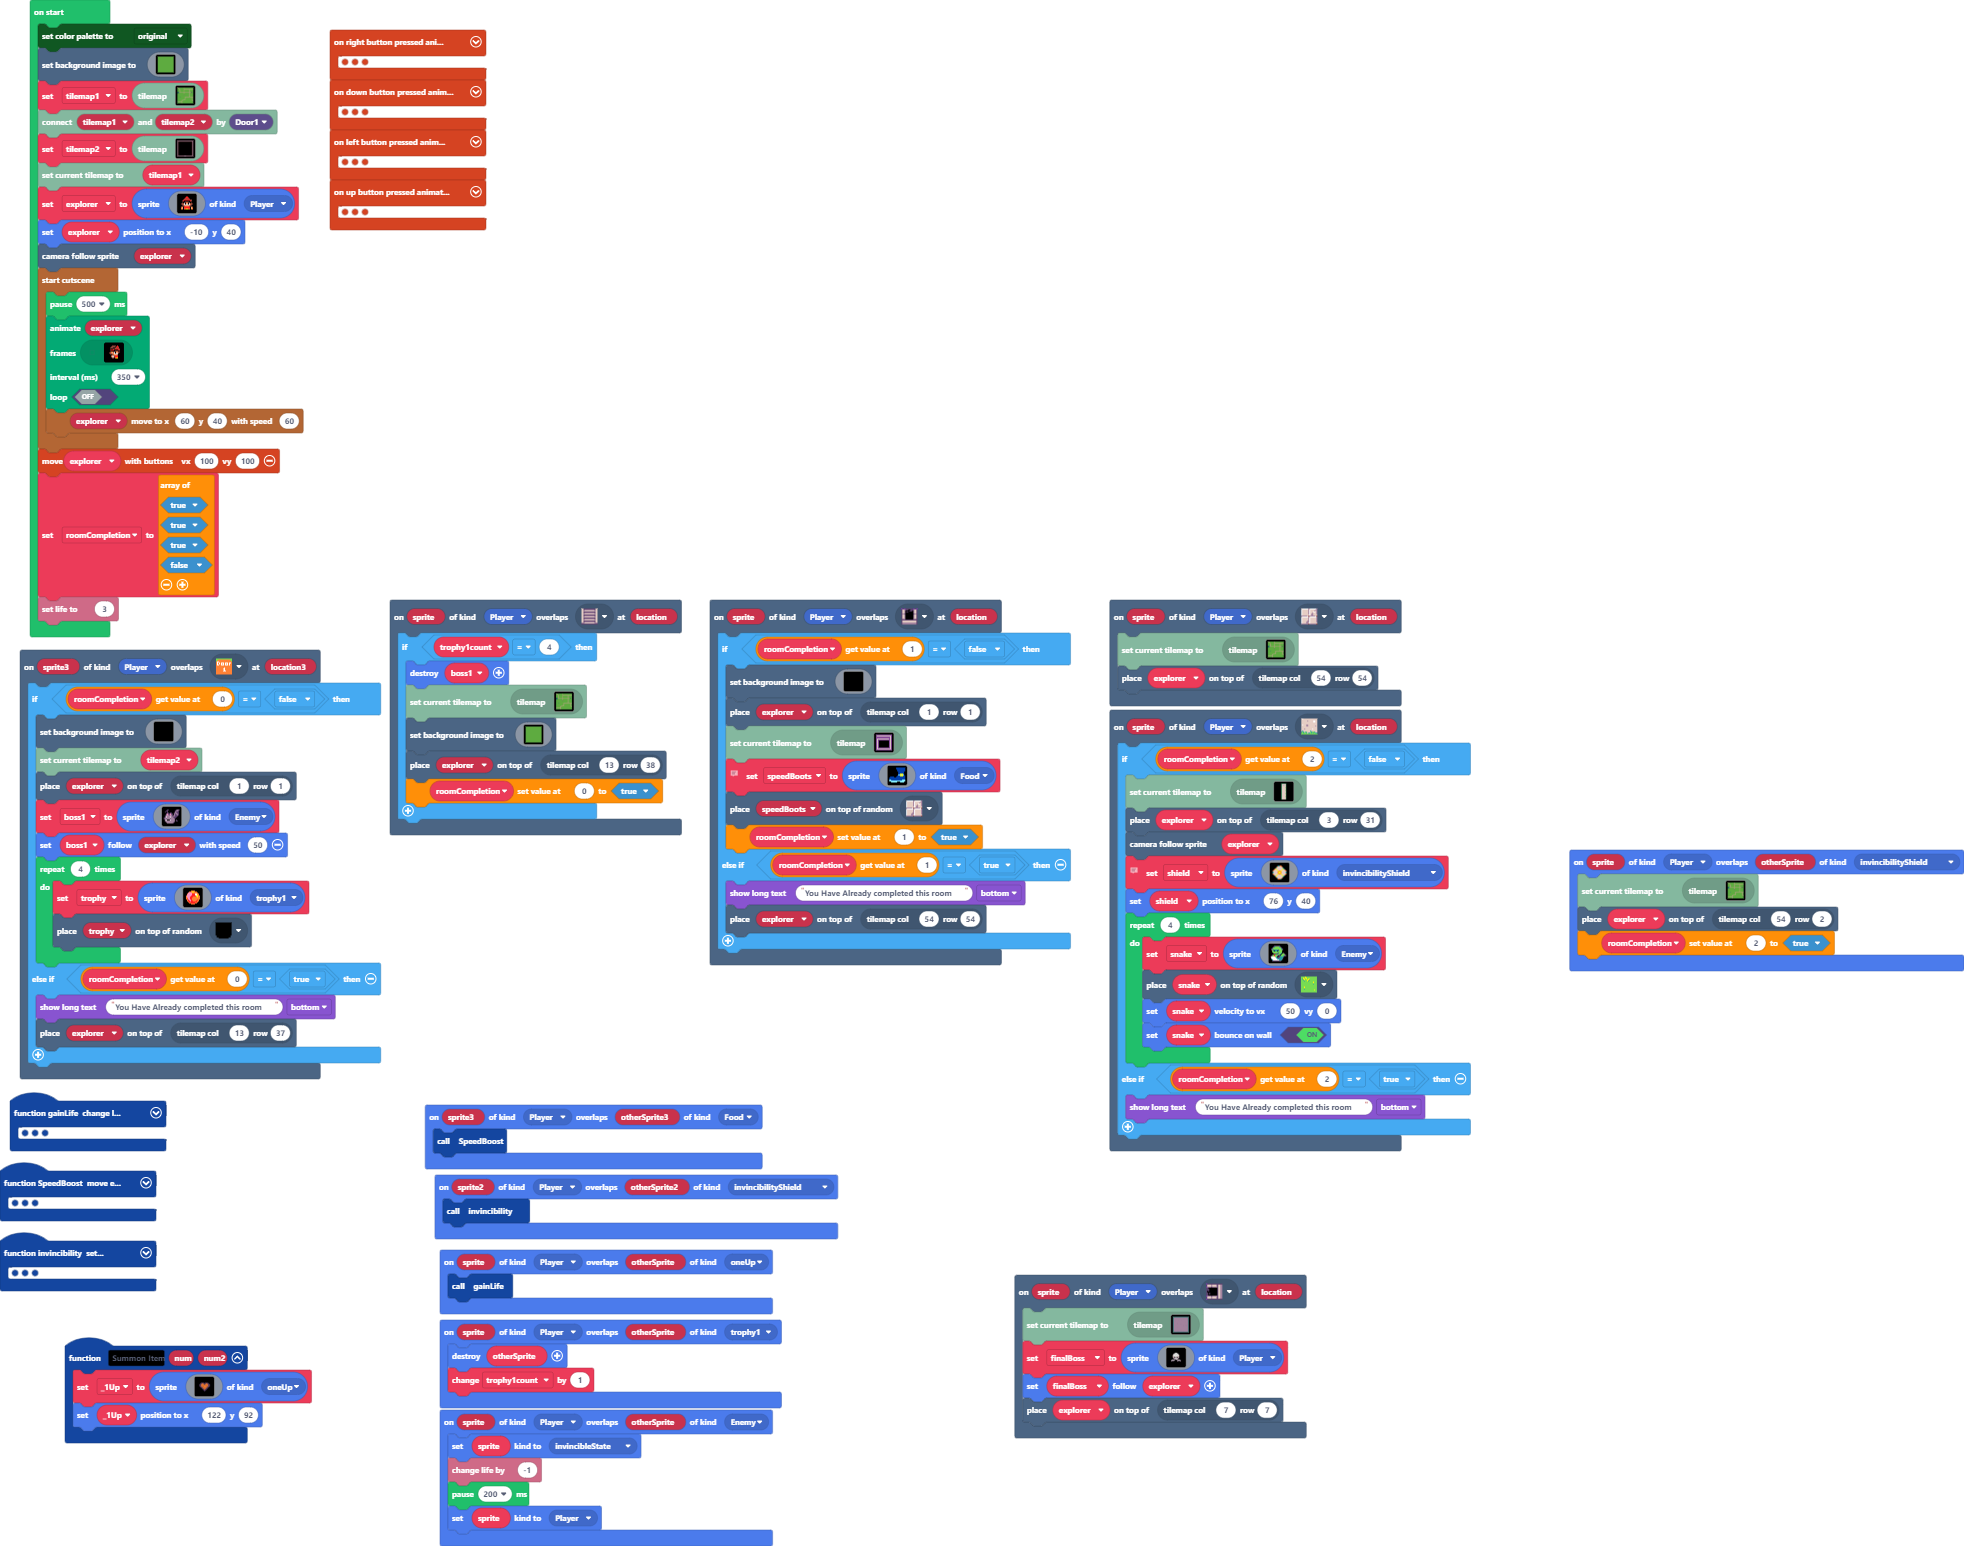
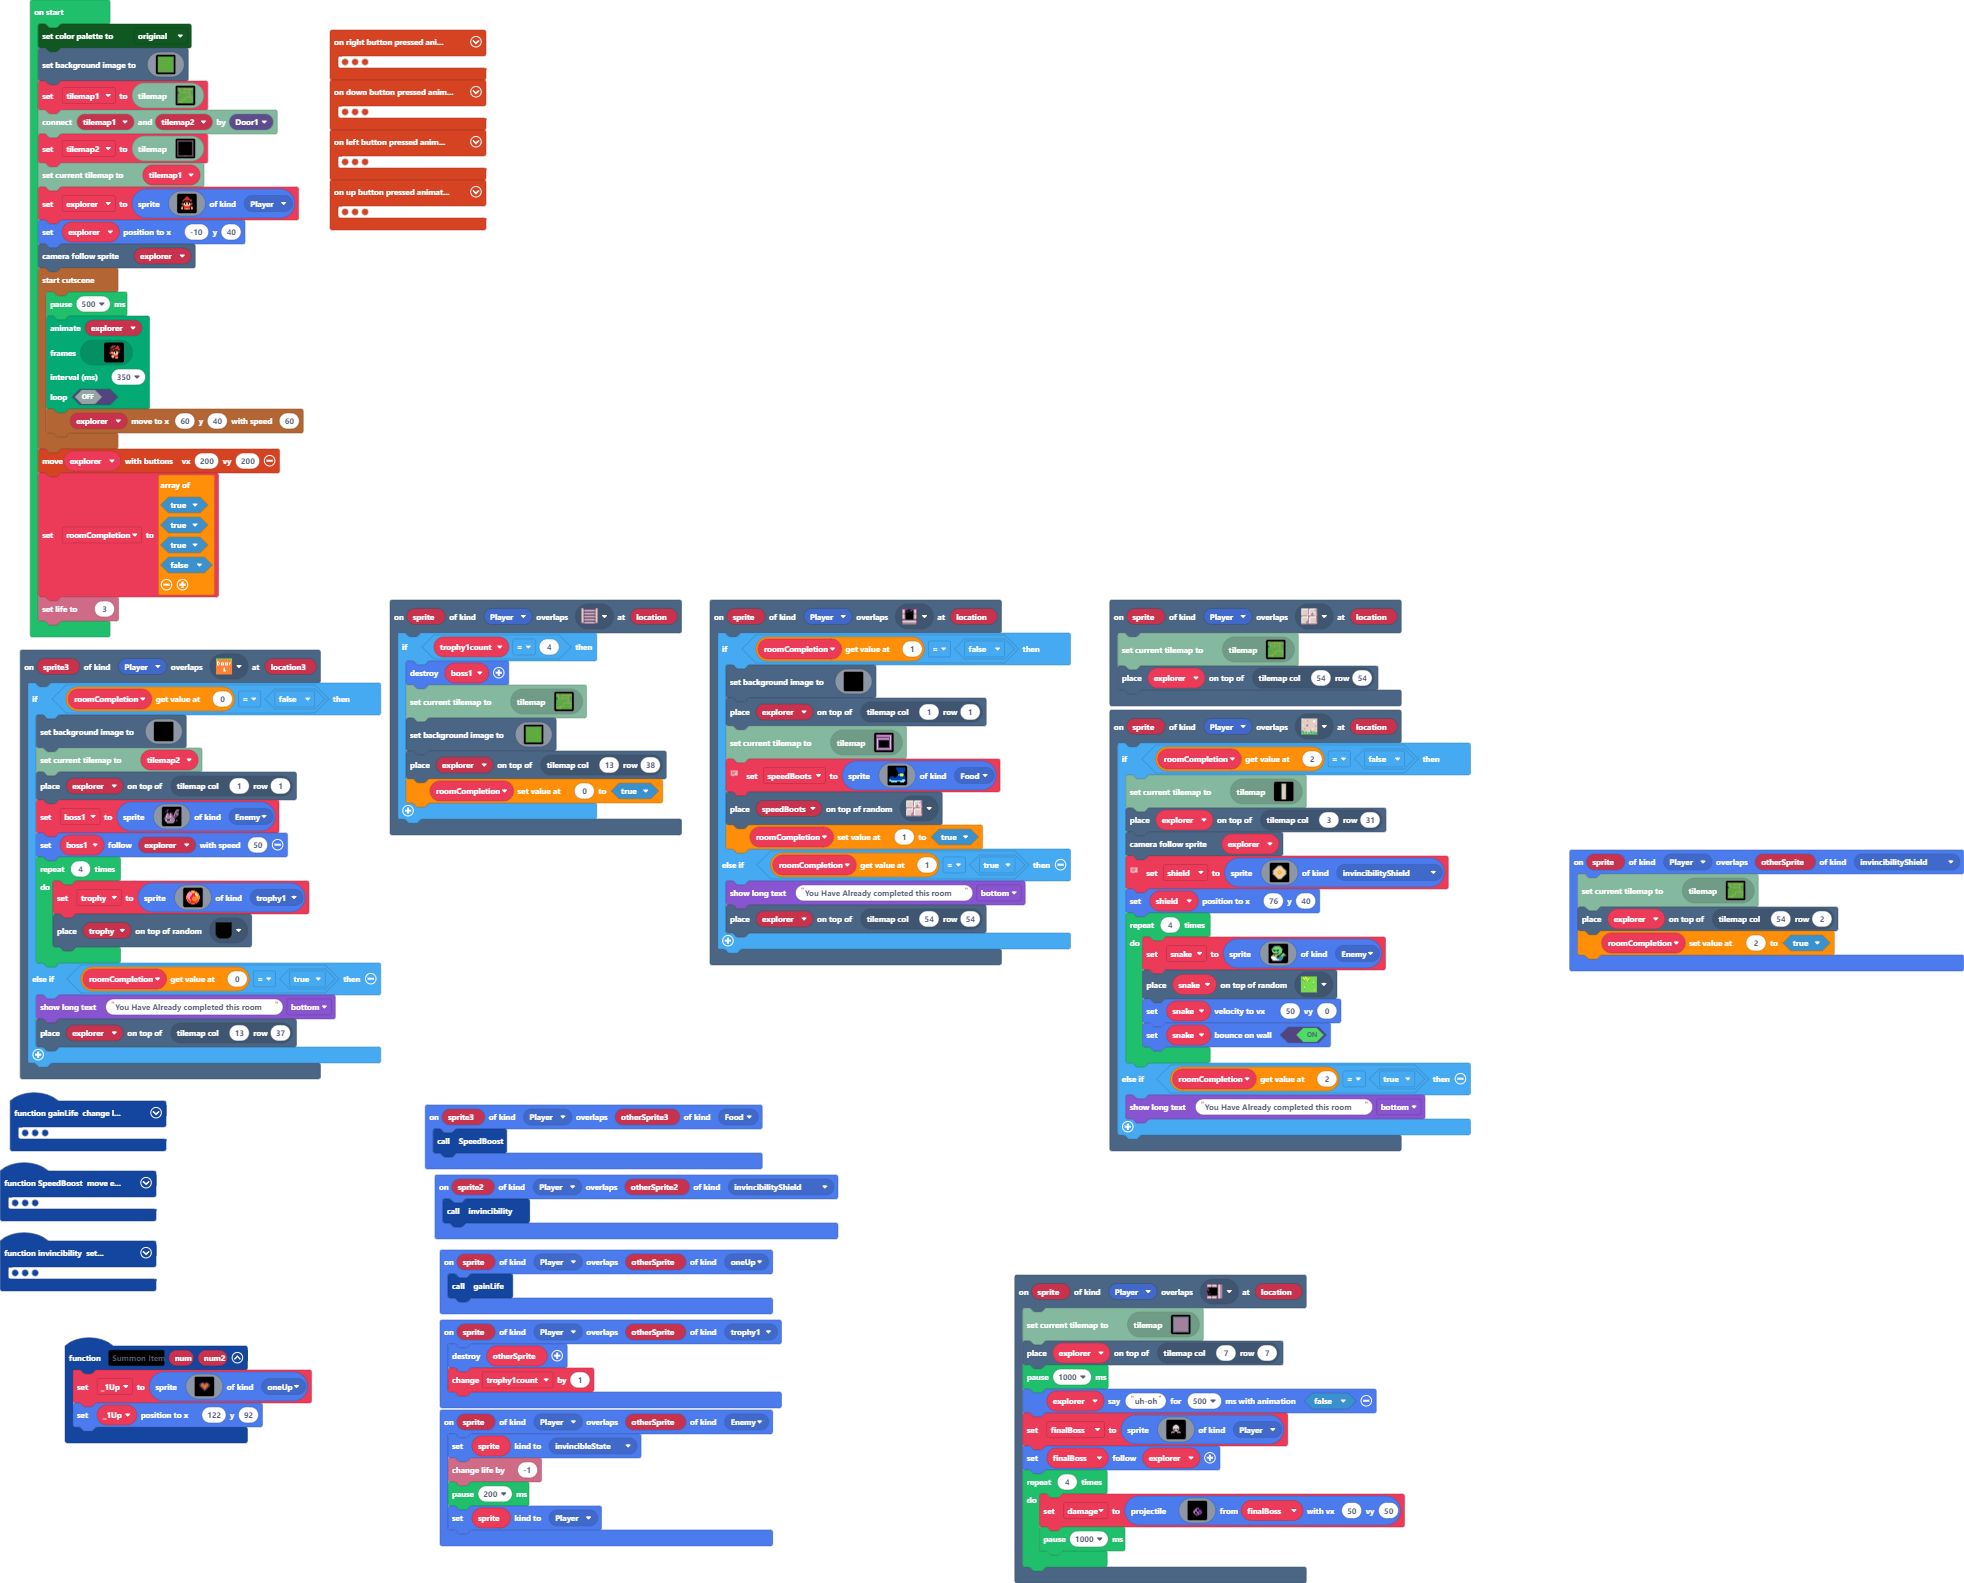
Update main.blocks, main.ts, tilemap.g.jres, tilemap.g.ts

diff --git a/tilemap.g.ts b/tilemap.g.ts
@@ -1015,22 +1015,22 @@ namespace myTiles {
 `, [myTiles.transparency16], TileScale.Sixteen);
             case "level34":
[1 lines of base64/hex data omitted]
-. . . . . . . . . . . . . . . . 
-. . . . . . . . . . . . . . . . 
-. . . . . . . . . . . . . . . . 
-. . . . . . . . . . . . . . . . 
-. . . . . . . . . . . . . . . . 
-. . . . . . . . . . . . . . . . 
-. . . . . . . . . . . . . . . . 
-. . . . . . . . . . . . . . . . 
-. . . . . . . . . . . . . . . . 
-. . . . . . . . . . . . . . . . 
-. . . . . . . . . . . . . . . . 
-. . . . . . . . . . . . . . . . 
-. . . . . . . . . . . . . . . . 
-. . . . . . . . . . . . . . . . 
-. . . . . . . . . . . . . . . . 
-. . . . . . . . . . . . . . . . 
+2 2 2 2 2 2 2 2 2 2 2 2 2 2 2 2 
+2 . . . . . . . . . . . . . . 2 
+2 . . . . . . . . . . . . . . 2 
+2 . . . . . . . . . . . . . . 2 
+2 . . . . . . . . . . . . . . 2 
+2 . . . . . . . . . . . . . . 2 
+2 . . . . . . . . . . . . . . 2 
+2 . . . . . . . . . . . . . . 2 
+2 . . . . . . . . . . . . . . 2 
+2 . . . . . . . . . . . . . . 2 
+2 . . . . . . . . . . . . . . 2 
+2 . . . . . . . . . . . . . . 2 
+2 . . . . . . . . . . . . . . 2 
+2 . . . . . . . . . . . . . . 2 
+2 . . . . . . . . . . . . . . 2 
+2 2 2 2 2 2 2 2 2 2 2 2 2 2 2 2 
 `, [myTiles.transparency16,sprites.dungeon.greenOuterSouthEast,sprites.dungeon.greenOuterSouthWest,sprites.dungeon.greenOuterNorthEast,sprites.dungeon.greenOuterNorthWest,sprites.dungeon.greenOuterNorth0,sprites.dungeon.greenOuterEast0,sprites.dungeon.greenOuterSouth0,sprites.dungeon.greenOuterWest0,sprites.dungeon.floorDark0,sprites.dungeon.floorDark1], TileScale.Sixteen);
         }
         return null;

diff --git a/main.ts b/main.ts
@@ -456,6 +456,9 @@ function SpeedBoost () {
 }
 scene.onOverlapTile(SpriteKind.Player, sprites.dungeon.doorOpenEast, function (sprite, location) {
     tiles.loadMap(tiles.createMap(tilemap`level34`))
+    tiles.placeOnTile(explorer, tiles.getTileLocation(7, 7))
+    pause(1000)
+    explorer.sayText("uh-oh", 500, false)
     finalBoss = sprites.create(img`
         ........................
         ........................
@@ -483,7 +486,27 @@ scene.onOverlapTile(SpriteKind.Player, sprites.dungeon.doorOpenEast, function (s
         ........................
         `, SpriteKind.Player)
     finalBoss.follow(explorer)
-    tiles.placeOnTile(explorer, tiles.getTileLocation(7, 7))
+    for (let index = 0; index < 4; index++) {
+        damage = sprites.createProjectileFromSprite(img`
+            . . . . . . . . . . . . . . . . 
+            . . . . . . . . . . . . . . . . 
+            . . . . . . . . . . . . . . . . 
+            . . . . . . . . . . . . . . . . 
+            . . . . . . . . . . . . . . . . 
+            . . . . . . . c c c . . . . . . 
+            . . . . . . a b a a . . . . . . 
+            . . . . . c b a f c a c . . . . 
+            . . . . c b b b f f a c c . . . 
+            . . . . b b f a b b a a c . . . 
+            . . . . c b f f b a f c a . . . 
+            . . . . . c a a c b b a . . . . 
+            . . . . . . c c c c . . . . . . 
+            . . . . . . . c . . . . . . . . 
+            . . . . . . . . . . . . . . . . 
+            . . . . . . . . . . . . . . . . 
+            `, finalBoss, 50, 50)
+        pause(1000)
+    }
 })
 function invincibility () {
     explorer.setKind(SpriteKind.invincibleState)
@@ -924,6 +947,7 @@ let snake: Sprite = null
 let trophy: Sprite = null
 let _1Up: Sprite = null
 let shield: Sprite = null
+let damage: Sprite = null
 let finalBoss: Sprite = null
 let speedBoots: Sprite = null
 let boss1: Sprite = null
@@ -1183,7 +1207,7 @@ story.startCutscene(function () {
     )
     story.spriteMoveToLocation(explorer, 60, 40, 60)
 })
-controller.moveSprite(explorer, 100, 100)
+controller.moveSprite(explorer, 200, 200)
 roomCompletion = [
 true,
 true,
